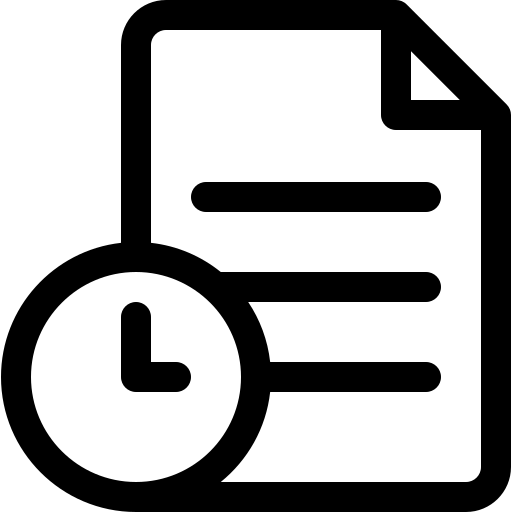
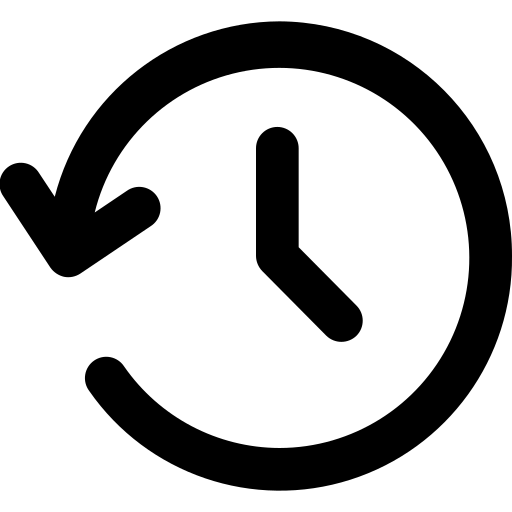
TÔ MÀU CHO SẢN PHẨM TỒN KHO SẮP HẾT

diff --git a/src/main/java/view/InventoryView.java b/src/main/java/view/InventoryView.java
@@ -94,7 +94,7 @@ public class InventoryView extends JPanel {
         lblOutOfStock = new JLabel("0", SwingConstants.LEFT);
 
         cardsPanel.add(createSummaryCard("Tổng mặt hàng", lblTotalItems, primaryBlue));
-        cardsPanel.add(createSummaryCard("Sắp hết hàng (<10)", lblLowStock, colorWarning));
+        cardsPanel.add(createSummaryCard("Sắp hết hàng (<20)", lblLowStock, colorWarning));
         cardsPanel.add(createSummaryCard("Hết sạch hàng (0)", lblOutOfStock, colorDanger));
 
         centerPanel.add(cardsPanel, BorderLayout.NORTH);
@@ -194,23 +194,35 @@ public class InventoryView extends JPanel {
         // THUẬT TOÁN ĐỔ MÀU CẢNH BÁO TỰ ĐỘNG
         tblInventory.setDefaultRenderer(Object.class, new DefaultTableCellRenderer() {
             @Override
-            public Component getTableCellRendererComponent(JTable table, Object value, boolean isSelected, boolean hasFocus, int row, int column) {
+            public Component getTableCellRendererComponent(JTable table, Object value,
+                    boolean isSelected, boolean hasFocus, int row, int column) {
                 Component c = super.getTableCellRendererComponent(table, value, isSelected, hasFocus, row, column);
-                
-                // Lấy giá trị cột "Số Lượng Tồn" (Cột số 2)
-                int quantity = Integer.parseInt(table.getModel().getValueAt(row, 2).toString());
-                
-                if (!isSelected) {
-                    if (quantity == 0) {
-                        c.setForeground(colorDanger); // Đỏ nếu hết hàng
-                        c.setFont(c.getFont().deriveFont(Font.BOLD));
-                    } else if (quantity < 10) {
-                        c.setForeground(colorWarning); // Cam nếu sắp hết
-                        c.setFont(c.getFont().deriveFont(Font.BOLD));
-                    } else {
-                        c.setForeground(textDark); // Đen bình thường
-                        c.setFont(c.getFont().deriveFont(Font.PLAIN));
+        
+                try {
+                    int qty = Integer.parseInt(table.getModel().getValueAt(row, 2).toString());
+                    if (!isSelected) {
+                        if (qty == 0) {
+                        // ĐỎ - hết hàng
+                            c.setBackground(new Color(255, 235, 235));
+                            c.setForeground(colorDanger);
+                            ((JLabel)c).setFont(((JLabel)c).getFont().deriveFont(Font.BOLD));
+                        } else if (qty <= 5) {
+                            // CAM ĐẬM - nguy hiểm (< 5)
+                            c.setBackground(new Color(255, 243, 224));
+                            c.setForeground(new Color(230, 81, 0));
+                            ((JLabel)c).setFont(((JLabel)c).getFont().deriveFont(Font.BOLD));
+                        } else if (qty <= 20) {
+                            // VÀNG - cảnh báo (< 20)
+                            c.setBackground(new Color(255, 253, 231));
+                            c.setForeground(new Color(245, 127, 23));
+                            ((JLabel)c).setFont(((JLabel)c).getFont().deriveFont(Font.PLAIN));
+                        } else {
+                            c.setBackground(Color.WHITE);
+                            c.setForeground(textDark);
+                        }
                     }
+                } catch (Exception ex) {
+                    c.setBackground(isSelected ? table.getSelectionBackground() : Color.WHITE);
                 }
                 return c;
             }
